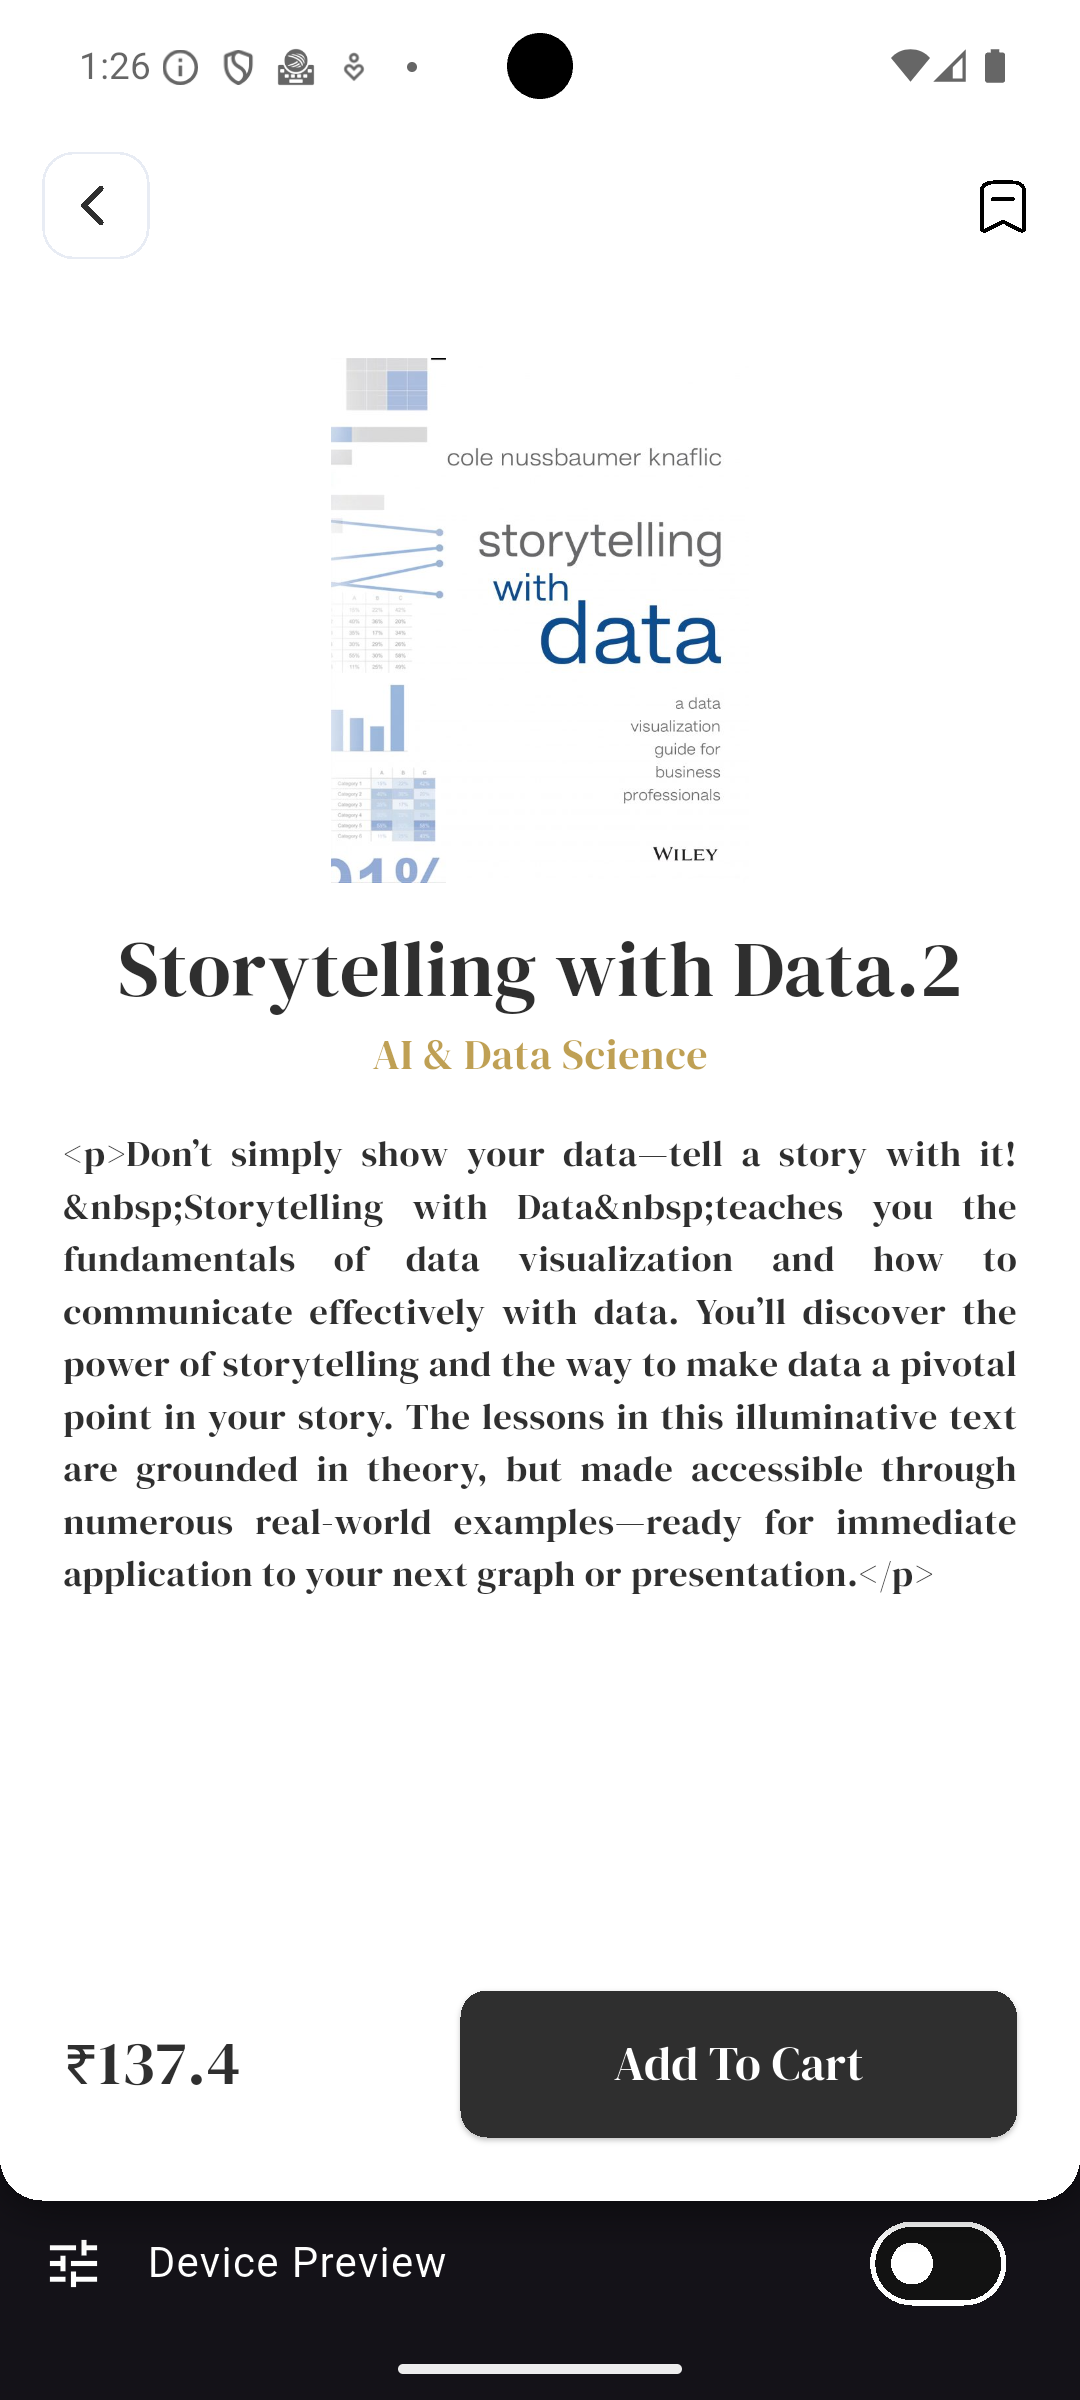
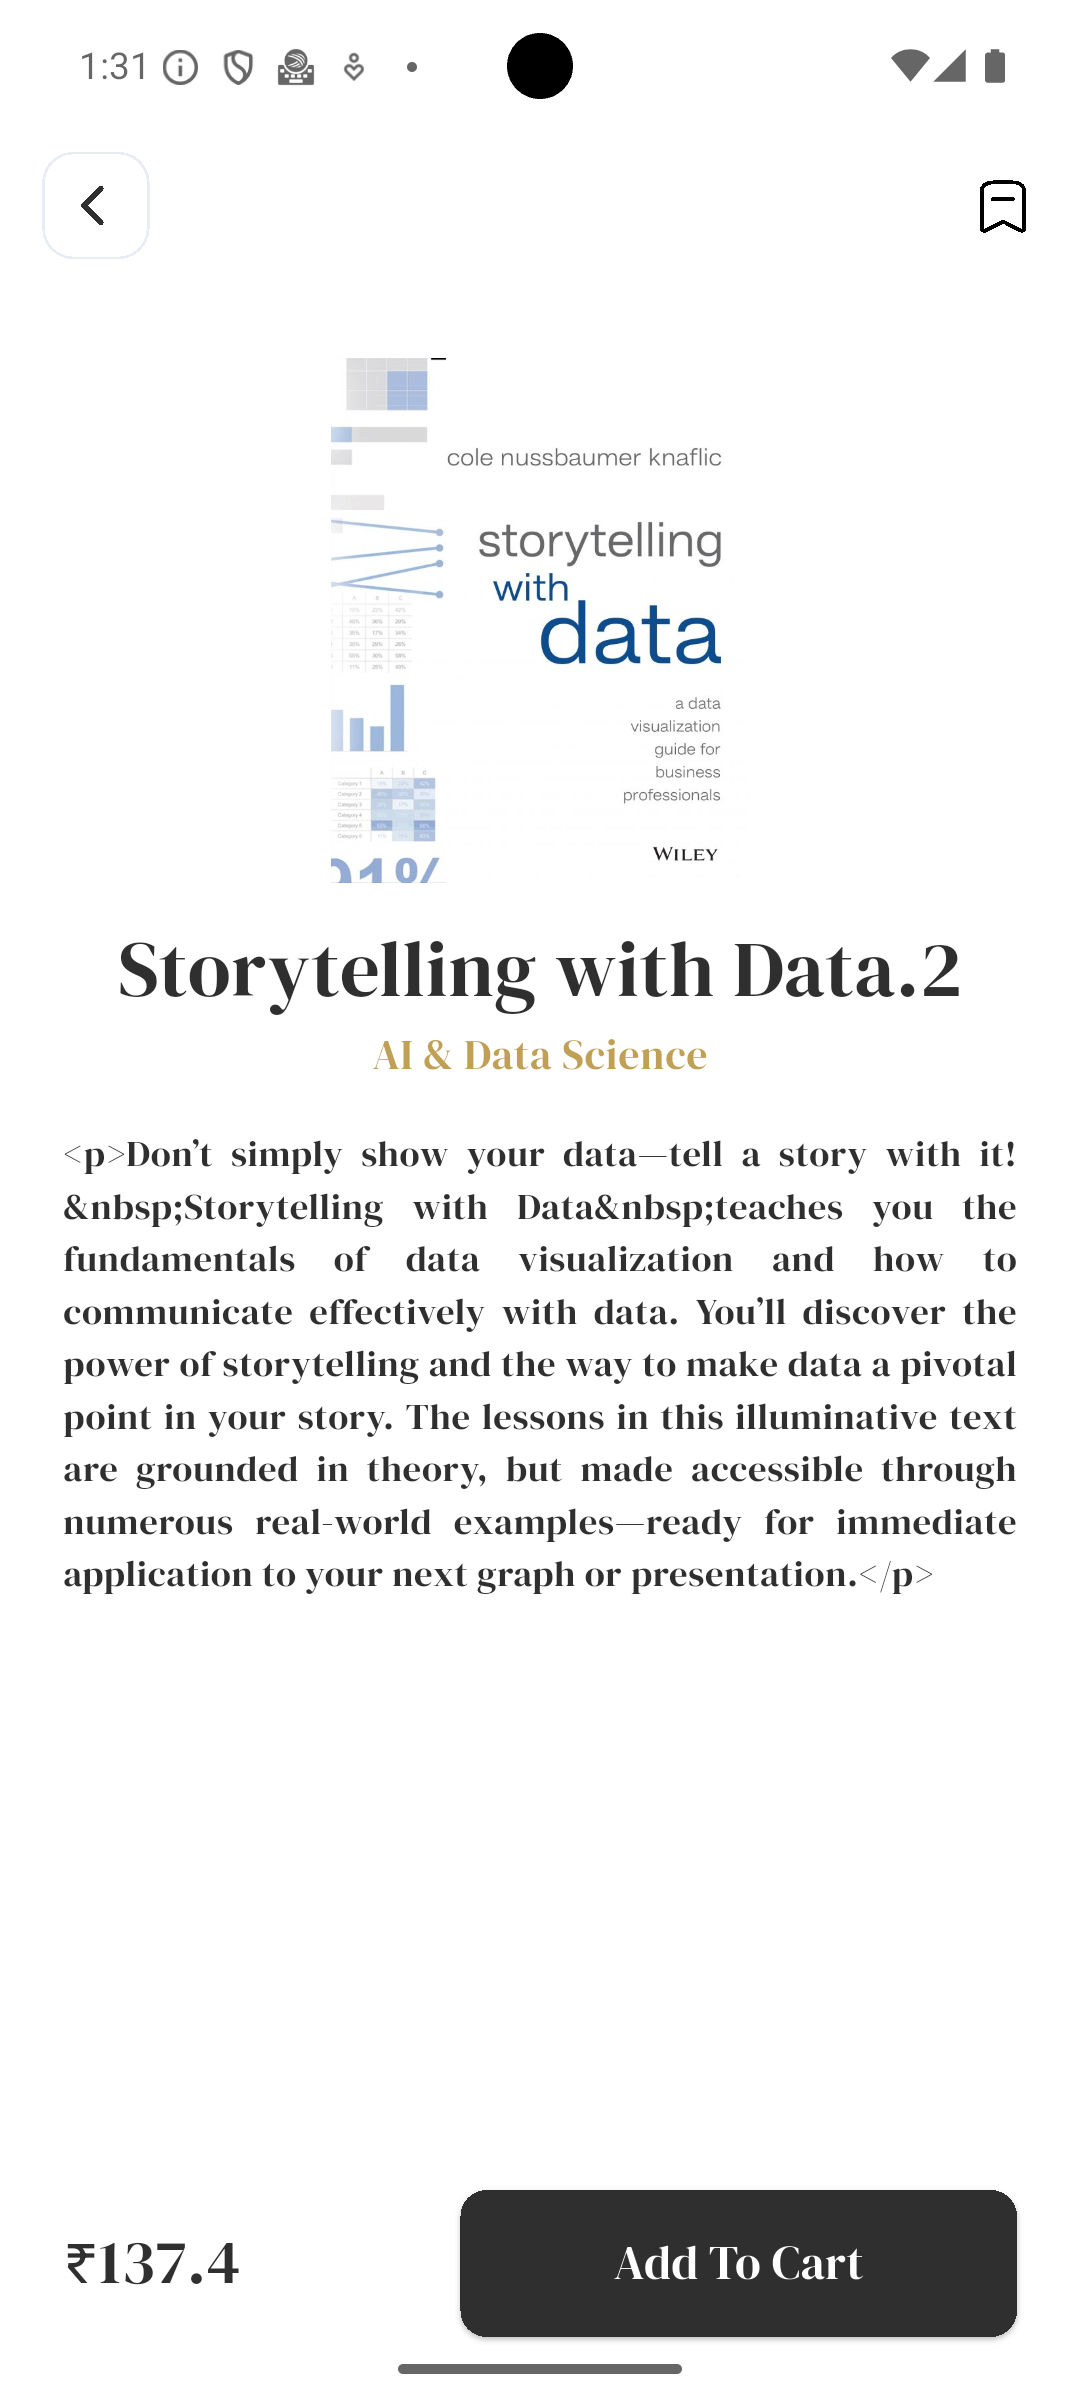
Update readme

Changed region(s): [[0.0, 0.8125, 1.0, 1.0], [0.0611, 0.8438, 0.2139, 0.875]]

diff --git a/lib/main.dart b/lib/main.dart
@@ -2,15 +2,13 @@ import 'package:bookia/core/routes/routes.dart';
 import 'package:bookia/core/services/dio/dio_provider.dart';
 import 'package:bookia/core/services/local/shered_preferences.dart';
 import 'package:bookia/core/utils/theme.dart';
-import 'package:device_preview/device_preview.dart';
-import 'package:flutter/foundation.dart';
 import 'package:flutter/material.dart';
 
 Future<void> main() async {
   WidgetsFlutterBinding.ensureInitialized();
   DioProvider.init();
   await SheredPreferences.init();
-  runApp(DevicePreview(enabled: !kReleaseMode, builder: (BuildContext context) => const MainApp()));
+  runApp(const MainApp());
 }
 
 class MainApp extends StatelessWidget {
